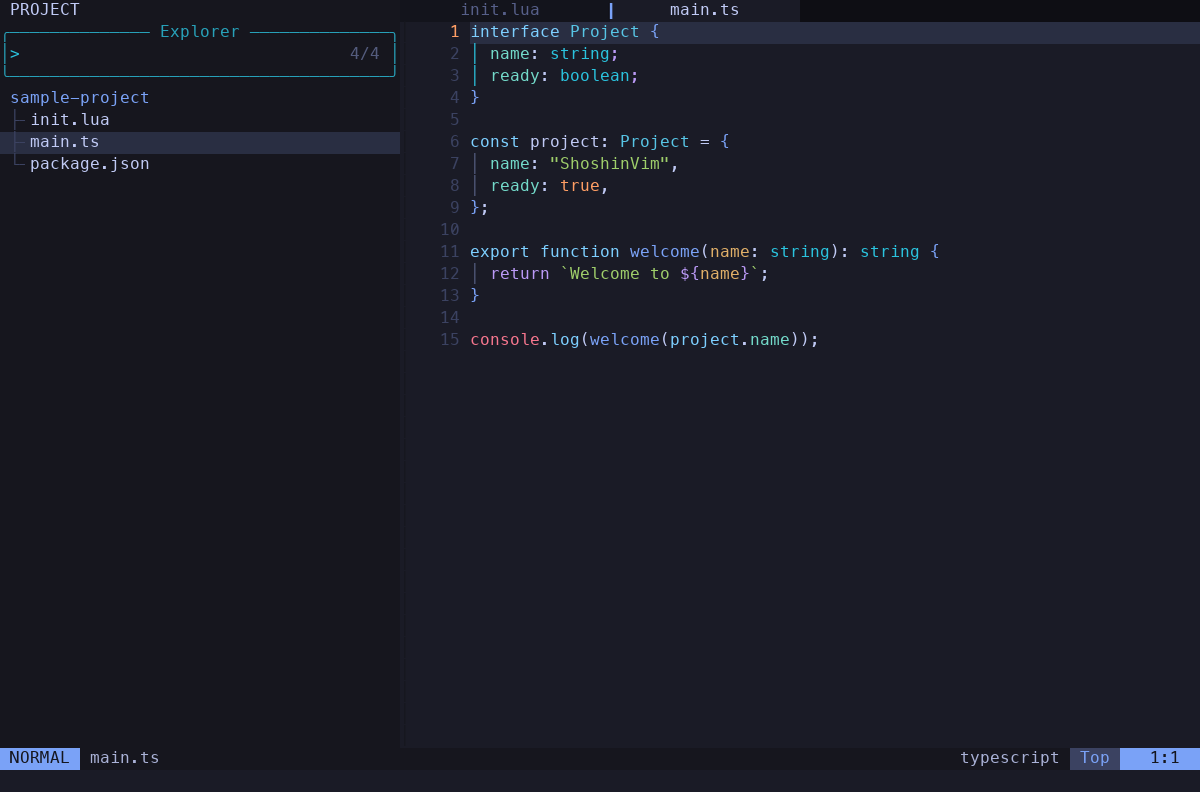
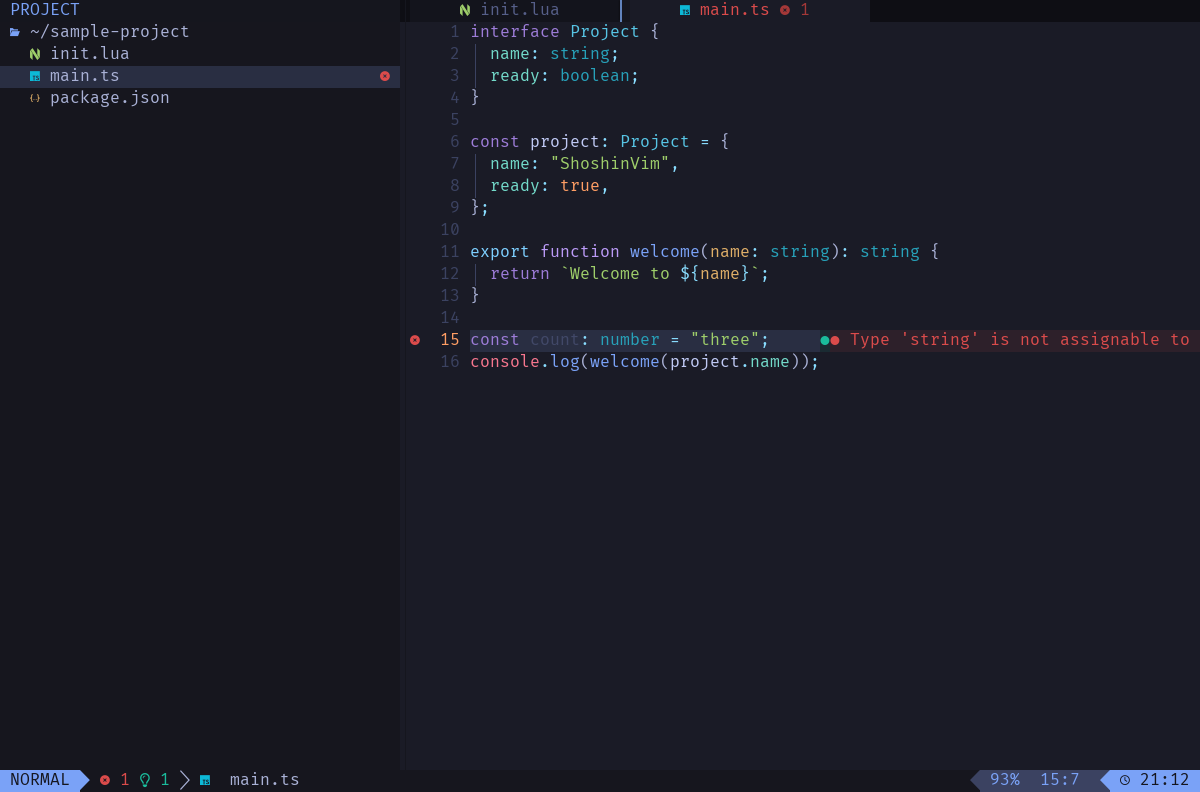
Show the recommended setup in the README's editor images
The two editor images predated Nerd Font icons, LazyVim's status line,
neo-tree, the themed plugins and noice. They now show a setup accepting
every recommendation: a TypeScript file with a type error shown on its
line, and the Space key guide.

scripts/editor-smoke.py now makes these images the way a terminal draws
them: characters the font lacks come from fallback fonts, and borders and
gutter bars fill their cells so they join. HOME points into the test root,
so the explorer shows ~/sample-project rather than this machine's path. The
sample file's type error also makes the smoke test check that the
TypeScript server reports diagnostics.

diff --git a/scripts/editor-smoke.py b/scripts/editor-smoke.py
@@ -1,8 +1,12 @@
 #!/usr/bin/env python3
-"""Real Neovim UI smoke test. Requires msgpack; Pillow is optional for screenshots.
-Run only against an isolated, already-installed Rich IDE configuration:
+"""Real Neovim UI smoke test. Requires msgpack; screenshots also need Pillow and fontTools.
+Run only against an isolated, already-installed configuration with Tokyo Night and a
+TypeScript language server, such as one accepting every recommendation:
   python3 scripts/editor-smoke.py --root /tmp/shoshinvim-test --screenshots /tmp/screens
+The root holds config/, data/, state/ and cache/; HOME is root/home, so paths show as ~.
 Screenshots of a configuration with Nerd Font icons need a Nerd Font: pass --font.
+The README's images are workspace.png (docs/assets/rich-ide.png) and shortcuts.png
+(docs/assets/shortcut-guide.png).
 """
 import argparse, os, pathlib, select, subprocess, time
 import msgpack
@@ -14,6 +18,7 @@ class Editor:
         for key, directory in [('XDG_CONFIG_HOME','config'),('XDG_DATA_HOME','data'),('XDG_STATE_HOME','state'),('XDG_CACHE_HOME','cache')]:
             env[key] = str(root / directory)
         env['NVIM_APPNAME'] = 'nvim'
+        env['HOME'] = str(root / 'home')  # Paths on screen read ~/..., not this machine's.
         env['VIM_LOG_FILE'] = str(root / 'ui.log')
         self.stderr = open(root / 'ui-stderr.log','wb')
         self.p = subprocess.Popen(['nvim','--embed','-i','NONE','-n'],stdin=subprocess.PIPE,stdout=subprocess.PIPE,stderr=self.stderr,env=env,cwd=root)
@@ -63,19 +68,43 @@ class Editor:
         return result
     def lua(self,code):return self.call('nvim_exec_lua',[code,[]])
     def keys(self,keys):self.call('nvim_input',[keys]);self.pump(.7)
+    # Like a terminal, characters the font lacks come from fallback fonts.
+    def font_for(self,c):
+        if not hasattr(self,'fonts'):
+            from PIL import ImageFont
+            from fontTools.ttLib import TTFont,TTCollection
+            self.fonts=[]
+            for path in [self.font,'/System/Library/Fonts/Menlo.ttc','/System/Library/Fonts/Apple Symbols.ttf','/System/Library/Fonts/Supplemental/Arial Unicode.ttf']:
+                if os.path.exists(path):
+                    tt=TTCollection(path).fonts[0] if path.endswith('.ttc') else TTFont(path)
+                    self.fonts.append((ImageFont.truetype(path,16),set(tt.getBestCmap())))
+        return next((f for f,cmap in self.fonts if ord(c) in cmap),self.fonts[0][0])
+    # Like a terminal, box-drawing and left-block characters fill their cell, so borders join.
+    LINES={'─':'lr','│':'ud','┌':'rd','┐':'ld','└':'ru','┘':'lu','├':'udr','┤':'udl','┬':'lrd','┴':'lru','┼':'lrud','╭':'rd','╮':'ld','╰':'ru','╯':'lu'}
+    ARCS={'╭':(0,0,180,270),'╮':(-1,0,270,360),'╰':(0,-1,90,180),'╯':(-1,-1,0,90)}
+    BLOCKS={'▏':1,'▎':2,'▍':3,'▌':4,'▋':5,'▊':6,'▉':7,'█':8}
+    def cell(self,draw,x,y,c,fg,w=10,h=22):
+        cx,cy=x+w//2,y+h//2;r=4 if c in self.ARCS else 0
+        if c in self.ARCS:
+            sx,sy,a0,a1=self.ARCS[c];ox=cx if sx==0 else cx-2*r;oy=cy if sy==0 else cy-2*r
+            draw.arc((ox,oy,ox+2*r,oy+2*r),a0,a1,fill=fg)
+        if c in self.LINES:
+            for side,line in {'l':(x,cy,cx-r,cy),'r':(cx+r,cy,x+w,cy),'u':(cx,y,cx,cy-r),'d':(cx,cy+r,cx,y+h)}.items():
+                if side in self.LINES[c]:draw.line(line,fill=fg)
+        elif c in self.BLOCKS:draw.rectangle((x,y,x+max(1,w*self.BLOCKS[c]//8)-1,y+h-1),fill=fg)
+        else:draw.text((x,y),c,font=self.font_for(c),fill=fg)
     def capture(self,path):
         self.call('nvim_command',['redraw!']);self.pump(.2)
         path.with_suffix('.txt').write_text('\n'.join(''.join(c for c,h in row) for row in self.grid))
-        from PIL import Image,ImageDraw,ImageFont
-        font=ImageFont.truetype(self.font,16)
+        from PIL import Image,ImageDraw
         im=Image.new('RGB',(len(self.grid[0])*10,len(self.grid)*22),self.bg);draw=ImageDraw.Draw(im)
+        color=lambda n: '#%06x'%n
         for y,row in enumerate(self.grid):
             for x,(c,h) in enumerate(row):
                 attr=self.highlights.get(h,{});fg=attr.get('foreground',self.fg);bg=attr.get('background',self.bg)
                 if attr.get('reverse'):fg,bg=bg,fg
-                color=lambda n: '#%06x'%n
-                draw.rectangle((x*10,y*22,x*10+10,y*22+22),fill=color(bg))
-                draw.text((x*10,y*22),c,font=font,fill=color(fg))
+                draw.rectangle((x*10,y*22,x*10+9,y*22+21),fill=color(bg))
+                if c.strip():self.cell(draw,x*10,y*22,c,color(fg))
         im.save(path)
     def close(self):
         self.p.terminate()
@@ -86,9 +115,10 @@ class Editor:
 p=argparse.ArgumentParser();p.add_argument('--root',type=pathlib.Path,required=True);p.add_argument('--screenshots',type=pathlib.Path,required=True)
 p.add_argument('--font',default='/System/Library/Fonts/Menlo.ttc',help='monospace font file for the screenshots')
 a=p.parse_args();a.screenshots.mkdir(parents=True,exist_ok=True)
-project=a.root/'sample-project';project.mkdir(exist_ok=True)
+project=a.root/'home'/'sample-project';project.mkdir(parents=True,exist_ok=True)
 (project/'package.json').write_text('{"name":"shoshin-preview","private":true}\n')
-(project/'main.ts').write_text('interface Project {\n  name: string;\n  ready: boolean;\n}\n\nconst project: Project = {\n  name: "ShoshinVim",\n  ready: true,\n};\n\nexport function welcome(name: string): string {\n  return `Welcome to ${name}`;\n}\n\nconsole.log(welcome(project.name));\n')
+# Line 15 has a type error, so the workspace shows the language server's diagnostics.
+(project/'main.ts').write_text('interface Project {\n  name: string;\n  ready: boolean;\n}\n\nconst project: Project = {\n  name: "ShoshinVim",\n  ready: true,\n};\n\nexport function welcome(name: string): string {\n  return `Welcome to ${name}`;\n}\n\nconst count: number = "three";\nconsole.log(welcome(project.name));\n')
 (project/'init.lua').write_text('local greeting = "Hello, Shoshin"\nprint(greeting)\n')
 e=Editor(a.root,a.font)
 try:
@@ -100,16 +130,19 @@ try:
     e.call('nvim_command',['edit '+str(project/'main.ts')]);e.pump(2)
     e.call('nvim_command',['ShoshinExplore']);e.pump(1)
     assert e.lua("return #vim.api.nvim_list_wins()") >= 2, 'explorer did not open'
-    e.call('nvim_command',['wincmd l']);e.pump(.3)
-    e.capture(a.screenshots/'workspace.png')
+    e.call('nvim_command',['wincmd l']);e.pump(.3);e.call('nvim_win_set_cursor',[0,[15,6]])
+    end=time.monotonic()+20
+    while not e.lua("return #vim.diagnostic.get(0, { severity = vim.diagnostic.severity.ERROR })") and time.monotonic()<end:e.pump(.5)
+    assert e.lua("return #vim.diagnostic.get(0, { severity = vim.diagnostic.severity.ERROR })"), 'the language server reported no type error'
+    e.pump(1);e.capture(a.screenshots/'workspace.png')
     e.keys('<Esc>');e.call('nvim_command',['wincmd l']);e.keys(' ');e.pump(.8)
     e.capture(a.screenshots/'shortcuts.png')
-    assert 'Windows' in (a.screenshots/'shortcuts.txt').read_text(), 'shortcut popup not visible'
+    assert 'close' in (a.screenshots/'shortcuts.txt').read_text(), 'shortcut popup not visible'
     e.keys('<Esc>')
     e.call('nvim_command',['ShoshinHelp']);e.capture(a.screenshots/'guide.png');e.keys('q')
     for width,height in [(80,24),(52,16)]:
         e.call('nvim_ui_try_resize',[width,height]);e.pump(.4);e.capture(a.screenshots/('workspace-%d.png'%width))
     assert not e.lua('return vim.v.errmsg'),e.lua('return vim.v.errmsg')
-    print('PASS: real Neovim startup, theme, sidebar, buffer tabs, Space shortcut hints and workspace guide')
+    print('PASS: real Neovim startup, theme, sidebar, buffer tabs, diagnostics, Space shortcut hints and workspace guide')
     print(e.lua("return vim.inspect(vim.tbl_map(function(c) return c.name end, vim.lsp.get_clients()))"))
 finally:e.close()

diff --git a/docs/development.md b/docs/development.md
@@ -12,7 +12,7 @@ goreleaser release --snapshot --clean --skip=publish,announce,validate
 
 The real-Neovim suite downloads every offered plugin, theme, parser and language tool and checks each choice by what it does: `SHOSHINVIM_INTEGRATION=1 go test ./internal/engine/`. Languages whose runtime is missing are skipped; `SHOSHINVIM_ALL_LANGUAGES=1` makes that a failure. The **Real Neovim** workflow (`.github/workflows/integration.yml`) runs it on Linux with every runtime installed, weekly, on demand, and on pull requests labeled `integration`.
 
-`scripts/editor-smoke.py` drives the real Neovim UI through MessagePack RPC against a separately installed Rich IDE target. It requires Python `msgpack` and Pillow for macOS screenshots. It never installs dependencies. The Lua integration script checks real language-server responses and formatting separately.
+`scripts/editor-smoke.py` drives the real Neovim UI through MessagePack RPC against a separately installed target with Tokyo Night and a TypeScript language server, such as one accepting every recommendation. It requires Python `msgpack`, plus Pillow and fontTools for macOS screenshots, and never installs dependencies. Its `workspace.png` and `shortcuts.png` are the README's two editor images; pass a Nerd Font with `--font` when the target uses icons. The Lua integration script checks real language-server responses and formatting separately.
 
 Cross compilation and local snapshot archives cover macOS ARM64/x86_64, Linux ARM64/x86_64, and Windows x86_64. CI is configured to run on each platform. Public installation channels are **not yet released**. The shell/PowerShell installers, Homebrew formula generator, checksums and draft-release provenance workflow are release infrastructure; do not advertise their remote installation URLs until release verification passes.
 

diff --git a/README.md b/README.md
@@ -44,7 +44,7 @@ A guided setup in your terminal that writes plain Lua you own.
 
 Accepting every recommendation gives a cohesive workspace for Web and Lua development. Press Space and pause to see what each key does.
 
-<img alt="A TypeScript file in Neovim with the Tokyo Night theme, a project explorer, buffer tabs and a status line." src="docs/assets/rich-ide.png" width="49%"> <img alt="The same workspace with the Space key's shortcut popup open." src="docs/assets/shortcut-guide.png" width="49%">
+<img alt="A TypeScript file in Neovim with the Tokyo Night theme, file icons, a project explorer, buffer tabs, a status line and a type error shown on its line." src="docs/assets/rich-ide.png" width="49%"> <img alt="The same workspace with the Space key's shortcut popup open." src="docs/assets/shortcut-guide.png" width="49%">
 
 ## What you can choose
 
